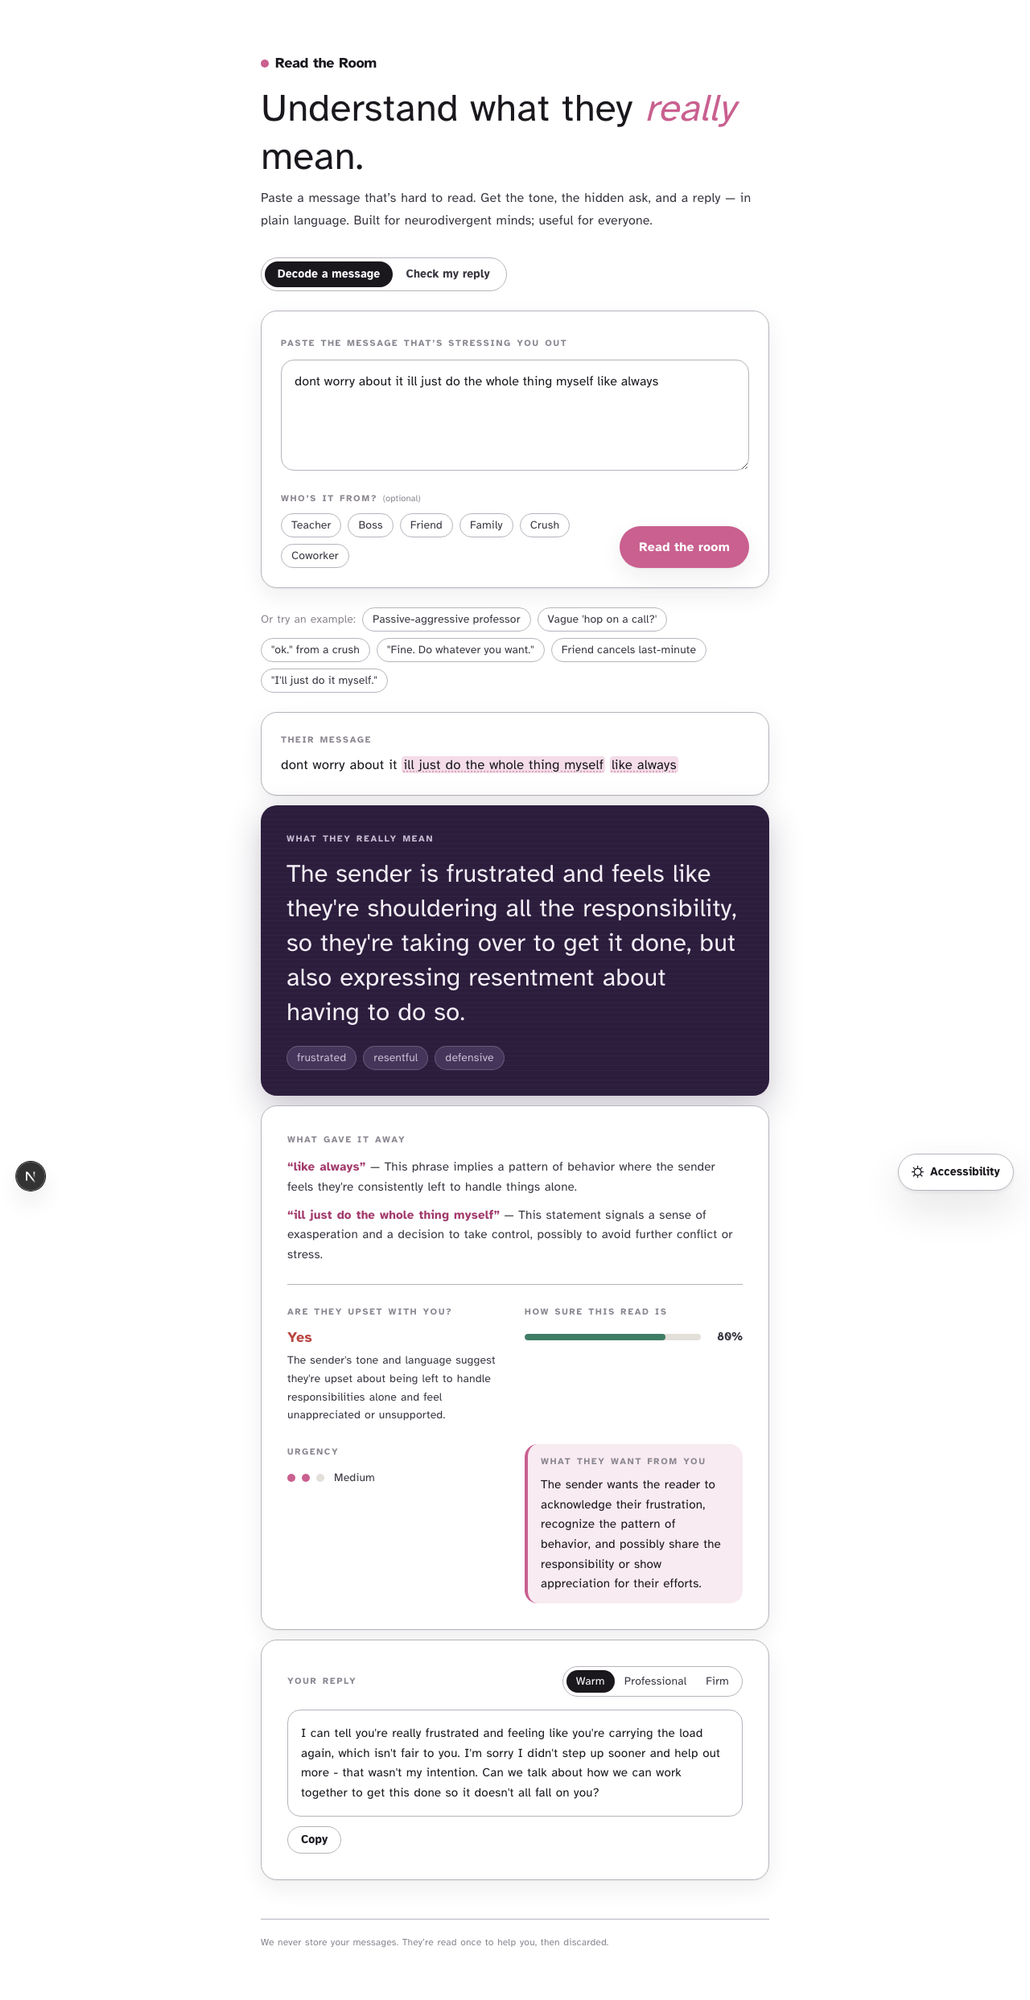
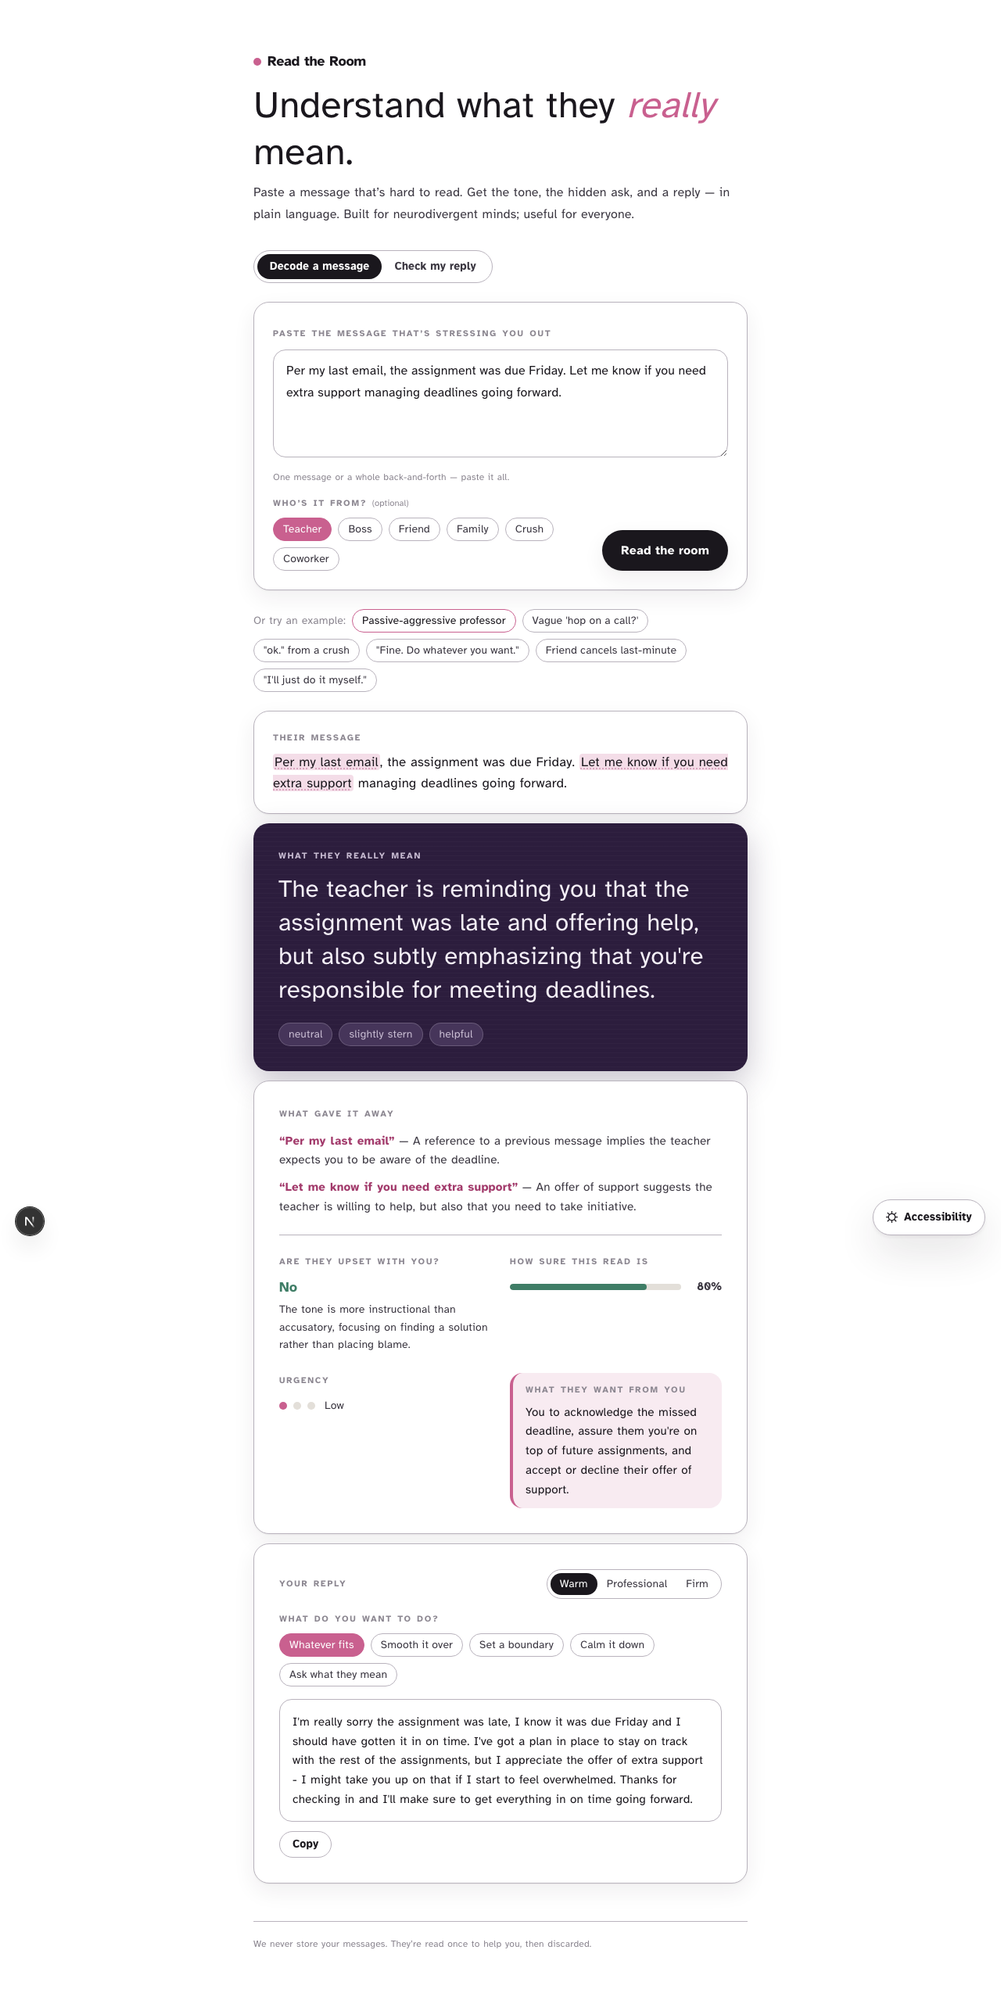
feat(read-the-room): goal-based replies + conversation support
Replies now take a goal (smooth it over / set a boundary / calm it down / ask what
they mean) that tailors all three tones; changing the goal regenerates. Decode prompt
+ UI now handle a whole back-and-forth, not just one line. Verified live: boundary vs
apologize produce distinctly different drafts. tsc + 18 tests green.

Track 03 - Youth Code x AI

Changed region(s): [[0.2478, 0.031, 0.7433, 0.93], [0.8671, 0.558, 0.991, 0.62], [0.0, 0.558, 0.0619, 0.62]]

diff --git a/components/decode/ReplyDrafts.tsx b/components/decode/ReplyDrafts.tsx
@@ -4,6 +4,7 @@ import { useEffect, useRef, useState } from "react";
 import {
   REPLY_TONES,
   type DecodeResult,
+  type ReplyGoal,
   type ReplyTone,
   type Sender,
 } from "@/lib/schema";
@@ -20,19 +21,27 @@ const TONE_LABEL: Record<ReplyTone, string> = {
   firm: "Firm",
 };
 
-type ReplyState = Record<ReplyTone, string>;
+const GOALS: { value: ReplyGoal; label: string }[] = [
+  { value: "auto", label: "Whatever fits" },
+  { value: "apologize", label: "Smooth it over" },
+  { value: "boundary", label: "Set a boundary" },
+  { value: "deescalate", label: "Calm it down" },
+  { value: "clarify", label: "Ask what they mean" },
+];
 
+type ReplyState = Record<ReplyTone, string>;
 const EMPTY: ReplyState = { warm: "", professional: "", firm: "" };
 
 export function ReplyDrafts({ message, decode, sender }: Props) {
   const [tone, setTone] = useState<ReplyTone>("warm");
+  const [goal, setGoal] = useState<ReplyGoal>("auto");
   const [replies, setReplies] = useState<ReplyState>(EMPTY);
   const [streamingTone, setStreamingTone] = useState<ReplyTone | null>(null);
   const [error, setError] = useState<string | null>(null);
   const [copied, setCopied] = useState(false);
   const inFlight = useRef<Set<ReplyTone>>(new Set());
 
-  async function generate(which: ReplyTone) {
+  async function generate(which: ReplyTone, withGoal: ReplyGoal) {
     if (replies[which] || inFlight.current.has(which)) return;
     inFlight.current.add(which);
     setStreamingTone(which);
@@ -41,11 +50,15 @@ export function ReplyDrafts({ message, decode, sender }: Props) {
       const res = await fetch("/api/reply", {
         method: "POST",
         headers: { "Content-Type": "application/json" },
-        body: JSON.stringify({ message, decode, tone: which, sender }),
+        body: JSON.stringify({
+          message,
+          decode,
+          tone: which,
+          goal: withGoal,
+          sender,
+        }),
       });
-      if (!res.ok || !res.body) {
-        throw new Error("reply failed");
-      }
+      if (!res.ok || !res.body) throw new Error("reply failed");
       const reader = res.body.getReader();
       const decoder = new TextDecoder();
       let acc = "";
@@ -63,16 +76,27 @@ export function ReplyDrafts({ message, decode, sender }: Props) {
     }
   }
 
-  // Auto-generate the warm reply once, when this draft block first appears.
+  // Auto-generate the warm reply once on mount.
   useEffect(() => {
-    generate("warm");
+    generate("warm", "auto");
     // eslint-disable-next-line react-hooks/exhaustive-deps
   }, []);
 
   function selectTone(next: ReplyTone) {
     setTone(next);
     setCopied(false);
-    generate(next);
+    generate(next, goal);
+  }
+
+  function selectGoal(next: ReplyGoal) {
+    if (next === goal) return;
+    setGoal(next);
+    setCopied(false);
+    setReplies(EMPTY);
+    inFlight.current.clear();
+    setStreamingTone(null);
+    // regenerate the current tone with the new goal
+    generate(tone, next);
   }
 
   async function copy() {
@@ -111,12 +135,37 @@ export function ReplyDrafts({ message, decode, sender }: Props) {
                 type="button"
                 onClick={() => selectTone(t)}
                 className={`rounded-chip px-3 py-1 text-sm transition ${
-                  active
-                    ? "bg-ink text-paper"
-                    : "text-ink-soft hover:text-ink"
+                  active ? "bg-ink text-paper" : "text-ink-soft hover:text-ink"
                 }`}
               >
                 {TONE_LABEL[t]}
+              </button>
+            );
+          })}
+        </div>
+      </div>
+
+      {/* Goal selector */}
+      <div className="mt-4">
+        <p className="text-[0.7rem] font-bold uppercase tracking-[0.16em] text-ink-faint">
+          What do you want to do?
+        </p>
+        <div className="mt-2 flex flex-wrap gap-2">
+          {GOALS.map((g) => {
+            const active = goal === g.value;
+            return (
+              <button
+                key={g.value}
+                type="button"
+                aria-pressed={active}
+                onClick={() => selectGoal(g.value)}
+                className={`rounded-chip border px-3 py-1 text-sm transition ${
+                  active
+                    ? "border-rose bg-rose text-on-rose"
+                    : "border-line bg-paper text-ink-soft hover:border-rose"
+                }`}
+              >
+                {g.label}
               </button>
             );
           })}

diff --git a/lib/prompts.ts b/lib/prompts.ts
@@ -91,15 +91,26 @@ Rules:
 - Do not invent facts the reader hasn't given.`;
 }
 
+const GOAL_GUIDE: Record<string, string> = {
+  apologize: "smooth it over and take responsibility, without groveling",
+  boundary: "kindly hold a boundary or say no, without over-explaining",
+  deescalate: "calm things down and lower the temperature",
+  clarify: "warmly ask what they actually mean or want",
+};
+
 export function replyUser(input: ReplyInput): string {
   const d: DecodeResult = input.decode;
+  const goalLine =
+    input.goal && input.goal !== "auto" && GOAL_GUIDE[input.goal]
+      ? `\nThe reader's goal for this reply: ${GOAL_GUIDE[input.goal]}.`
+      : "";
   return `The message the reader received:${senderLine(input.sender)}
 """
 ${input.message}
 """
 
 What it really means: ${d.meaning}
-What they want: ${d.wants}
+What they want: ${d.wants}${goalLine}
 
 Write the reply now.`;
 }

diff --git a/lib/schema.ts b/lib/schema.ts
@@ -74,6 +74,16 @@ export type DecodeResult = z.infer<typeof DecodeResultSchema>;
 export const REPLY_TONES = ["warm", "professional", "firm"] as const;
 export type ReplyTone = (typeof REPLY_TONES)[number];
 
+/** What the reader is trying to achieve with their reply. */
+export const REPLY_GOALS = [
+  "auto",
+  "apologize",
+  "boundary",
+  "deescalate",
+  "clarify",
+] as const;
+export type ReplyGoal = (typeof REPLY_GOALS)[number];
+
 /** Result of the pre-send check: how the reader's own draft will land. */
 export const PreSendResultSchema = z.object({
   /** How the recipient is likely to read this draft. */
@@ -94,6 +104,7 @@ export interface ReplyInput {
   message: string;
   decode: DecodeResult;
   tone: ReplyTone;
+  goal?: ReplyGoal;
   sender?: Sender;
 }
 

diff --git a/components/ReadTheRoom.tsx b/components/ReadTheRoom.tsx
@@ -29,12 +29,16 @@ interface PreSendOk {
   demo: boolean;
 }
 
-const COPY: Record<Mode, { label: string; placeholder: string; sender: string; cta: string }> = {
+const COPY: Record<
+  Mode,
+  { label: string; placeholder: string; sender: string; cta: string; hint?: string }
+> = {
   decode: {
     label: "Paste the message that’s stressing you out",
     placeholder: "e.g. “Per my last email, the assignment was due Friday…”",
     sender: "Who’s it from?",
     cta: "Read the room",
+    hint: "One message or a whole back-and-forth — paste it all.",
   },
   presend: {
     label: "Paste the reply you’re about to send",
@@ -186,6 +190,9 @@ export function ReadTheRoom() {
           placeholder={copy.placeholder}
           className="mt-2 w-full resize-y rounded-2xl border border-line bg-paper px-4 py-3 text-ink outline-none transition placeholder:text-ink-faint focus:border-rose focus:ring-4 focus:ring-rose-soft"
         />
+        {copy.hint && (
+          <p className="mt-2 text-xs text-ink-faint">{copy.hint}</p>
+        )}
 
         <div className="mt-4 flex flex-col gap-4 sm:flex-row sm:items-end sm:justify-between">
           <fieldset>

diff --git a/app/api/reply/route.ts b/app/api/reply/route.ts
@@ -1,7 +1,12 @@
 import { NextRequest } from "next/server";
 import { z } from "zod";
 import { getProvider } from "@/lib/llm";
-import { DecodeResultSchema, REPLY_TONES, SENDERS } from "@/lib/schema";
+import {
+  DecodeResultSchema,
+  REPLY_TONES,
+  REPLY_GOALS,
+  SENDERS,
+} from "@/lib/schema";
 
 export const runtime = "nodejs";
 
@@ -9,6 +14,7 @@ const BodySchema = z.object({
   message: z.string().min(1).max(4000),
   decode: DecodeResultSchema,
   tone: z.enum(REPLY_TONES),
+  goal: z.enum(REPLY_GOALS).optional(),
   sender: z.enum(SENDERS).optional(),
 });
 